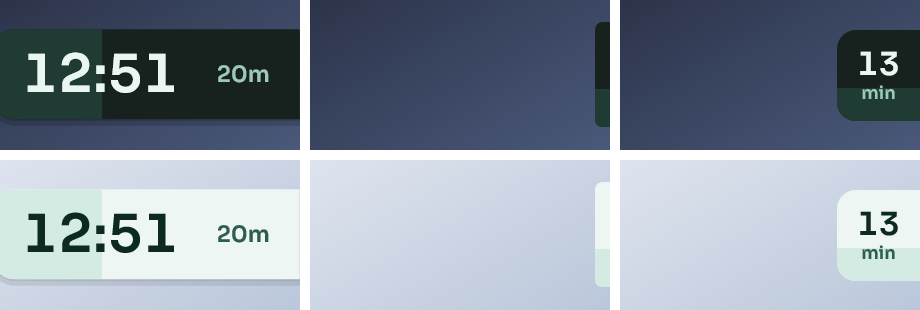
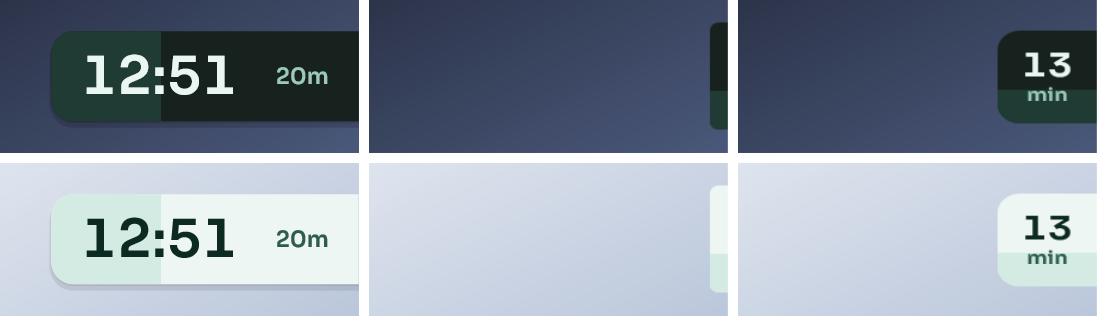
Concise README with fresh screenshots
The README is now the pitch, a few one-line features each over its screenshot,
and short install, build and license sections. Screenshots are recaptured with
scripts/capture_screens.ps1 from the main build (aeb2f12): time-up tabs, docking,
tray panel and settings in dark and light; the overlay sheet was byte-identical
and stays. Unused images (before/after, old widget and settings shots) are gone.

Build, install-script and screenshot details moved to CONTRIBUTING.md, which
also no longer claims "no network calls" (iPhone reminders and Check for
updates are opt-in).

diff --git a/README.md b/README.md
@@ -1,181 +1,59 @@
 <p align="center">
-  <img src="assets/icon.png" alt="Unseat sitting timer icon" width="128">
+  <img src="assets/icon.png" alt="Unseat icon" width="112">
 </p>
 
 <h1 align="center">Unseat</h1>
 
-<p align="center">A tiny always-on-top <strong>sitting timer</strong> for Windows. The pill fills as you sit, turns red when it is time to move, and can tuck itself into a screen edge.</p>
+<p align="center">A tiny always-on-top sitting timer for Windows.<br>
+The pill fills as you sit and turns red when it's time to move.</p>
 
-<p align="center">No accounts. No cloud. No telemetry. One portable exe.</p>
-
-<p>
-  <a href="LICENSE"><img alt="License" src="https://img.shields.io/badge/license-Apache%202.0-blue.svg"></a>
-  <a href="https://github.com/flyingsatoshi/unseat/actions"><img alt="CI" src="https://github.com/flyingsatoshi/unseat/actions/workflows/ci.yml/badge.svg"></a>
+<p align="center">
+  <a href="https://github.com/flyingsatoshi/unseat/actions/workflows/ci.yml"><img alt="CI" src="https://github.com/flyingsatoshi/unseat/actions/workflows/ci.yml/badge.svg"></a>
+  <a href="LICENSE"><img alt="License: Apache 2.0" src="https://img.shields.io/badge/license-Apache%202.0-blue.svg"></a>
 </p>
 
 <p align="center">
-  <img src="assets/screenshots/overlay-states.png" alt="Unseat overlay: counting, hover controls, overdue, break and paused, in dark and light themes. The pill fills as you sit and its colour shows the state." width="820">
+  <img src="assets/screenshots/overlay-states.png" alt="The overlay while sitting, on hover with pause, break and reset, overdue, on a break and paused, in dark and light" width="860">
 </p>
 
-<p align="center">
-  <img src="assets/screenshots/settings.png" alt="Unseat alert settings: sound, volume, alert length and reminders" width="300">
-  <img src="assets/screenshots/settings-light.png" alt="Unseat general settings in the light theme with the weekly statistics chart" width="300">
+<p align="center"><b>Time's up? Take a break, or sit one more session.</b><br>
+  <img src="assets/screenshots/time-up-prompt.png" alt="Two small tabs under the red overlay: Break 3m and +20m, with the caption 20 min sitting · time to stand" width="560">
 </p>
 
-<p align="center">
-  <img src="assets/screenshots/tray-panel.png" alt="Tray panel with the countdown, progress, Pause, Take a break, Snooze and Reset" width="300">
-  <img src="assets/screenshots/time-up-prompt.png" alt="When time is up, two small tabs hang under the red overlay: Break 3m and +20m, with a one-line caption" width="300">
+<p align="center"><b>Docks to a screen edge.</b> Point at it to peek; it slides out when time is up.<br>
+  <img src="assets/screenshots/dock-states.png" alt="Docked to the right edge: expanded, tucked into a slim progress tab, and peeking with 13 min" width="640">
 </p>
 
-## What's new in 0.2
-
-- **Signal design**: the overlay pill is the progress bar, its colour is the state, and the digits use the Sora typeface with fixed-width figures. Light, dark or system theme.
-- **Keeps running** through idle time, a locked screen, sleep and a minimized overlay. Pausing when you step away is now an opt-in setting.
-- **Edge docking**: attach the timer to any screen edge; it slides out to a slim progress tab and comes back when you point at it or when time is up.
-- **Breaks** with their own countdown, two small **time-up tabs** under the overlay (*Break* or one more session), a **tray panel** instead of a plain menu, a volume slider, global shortcuts and optional weekly statistics.
-- A new **Rise** icon.
-
-<p align="center">
-  <img src="assets/screenshots/dock-states.png" alt="Docked overlay expanded, slid out to a tab, and peeking with 13 min, in dark and light" width="640">
+<p align="center"><b>Everything else is one click away in the tray.</b><br>
+  <img src="assets/screenshots/tray-panel.png" alt="Tray panel with the overdue time, progress, Pause, Take a break, Snooze, Reset, Settings and iPhone reminders" width="560">
 </p>
 
-<details>
-<summary>Before and after</summary>
-
-<p align="center">
-  <img src="assets/screenshots/before-after.png" alt="The v0.2.0 interface before and after the Signal redesign" width="820">
+<p align="center"><b>Simple settings, light or dark.</b><br>
+  <img src="assets/screenshots/settings.png" alt="Settings: Timer and Alerts tabs in dark, General tab with the weekly chart in light" width="860">
 </p>
-</details>
 
-## Sitting timer for Windows
+## Also
 
-Unseat is a local desktop **timer** and break reminder. It stays on top of your work like a small watch, tracks how long you have been sitting, and alerts you when it is time to get up.
-
-**Timing you can trust**
-- Wall-clock based: idle time, a locked screen, sleep and a minimized overlay never stop it, and delayed updates never lose time
-- Optional **Pause when inactive** (off by default): the overlay shows *away* while you are gone, and being away for the break length starts a fresh session
-- **Break or extend**: when time is up, two small tabs hang under the overlay. *Break 10m* counts down your break length, then a fresh session starts; *+40m* gives you one more full session
-- **Breaks** any time from the overlay, the tray or `Ctrl+Alt+Shift+B`
-- Reverse countdown or ascending stopwatch, without resetting the session
-- Timer, pause and break state survive restarts; only Reset starts over
-
-**Alerts that get noticed, not in the way**
-- One alert at the limit, optional repeats while overdue that never pile up
-- The tabs wait quietly for your answer and follow the overlay. While it is hidden they come back with it, and an optional Windows notification stands in
-- Five bundled sounds, a volume slider and a Test button; every sound plays at the same loudness
-- Short snoozes from the tray panel or `Ctrl+Alt+Shift+S`
-
-**An overlay that fits your desk**
-- The pill is the progress bar and its colour shows the state: sitting, near the limit, overdue, break, away or paused
-- XS–XL sizes, optional always-on-top, drag anywhere (snaps to screen edges), position remembered on every monitor
-- Optional **edge docking** with auto-hide, peek, pin and reveal-on-alert
-- Tray panel with the countdown and one-click Pause, Take a break, Snooze and Reset
-
-**Everything else**
-- Light, dark or system theme; full keyboard navigation in settings
-- Optional 14-day statistics with a weekly chart, kept only on this PC
-- Optional launch with Windows
-
-Settings live in `%APPDATA%\Unseat\settings.json`.
-
-See [ARCHITECTURE.md](ARCHITECTURE.md) for how the engine and Win32 host split.
+- Keeps counting through idle time, a locked screen and sleep; restarts pick up where they left off.
+- Shortcuts: `Ctrl+Alt+Shift` + `P` pause · `B` break · `S` snooze · `R` reset · `U` show/hide.
+- Optional iPhone reminders over your own Tailscale network ([setup](docs/iphone.md)).
+- Five alert sounds, five sizes, countdown or stopwatch, 14-day stats.
+- Local only: no account, cloud or telemetry. One 1.3 MB exe, no installer or runtime.
 
 ## Install
 
-Download `unseat.exe` from [Releases](https://github.com/flyingsatoshi/unseat/releases), put it in a permanent folder of your choice (for example `%LOCALAPPDATA%\Programs\Unseat`), and run it there.
+Windows 10/11 (x64). Download `unseat.exe` from [Releases](https://github.com/flyingsatoshi/unseat/releases), keep it in a folder of your choice and run it. Settings live in `%APPDATA%\Unseat`.
 
-Unseat needs only Windows 10/11 (x64): no installer, runtime, Docker or developer tools.
+> 0.2, shown here, is not on Releases yet: take the `unseat-exe` artifact from the latest [CI run on main](https://github.com/flyingsatoshi/unseat/actions/workflows/ci.yml?query=branch%3Amain).
 
-> The latest published release is 0.1.1. Version 0.2 described here is on `main`; until its release is published, download the `unseat-exe` artifact from the latest [CI run](https://github.com/flyingsatoshi/unseat/actions/workflows/ci.yml?query=branch%3Amain) on `main` (needs a GitHub sign-in), or [build it from source](#build-from-source). Unseat is portable: it does not copy or relaunch itself, or create shortcuts automatically. You can pin it to the taskbar or create a shortcut yourself.
-
-Close from the taskbar or tray **Quit**. Click the pinned icon to open it again. Hide the overlay from the close chip or tray; the timer keeps running.
-
-Optional: Settings → General → Launch with Windows. This is off by default; the startup registration changes only when you change that switch and save, and the switch shows the real state (including an entry disabled in Task Manager). When it is on and you move the executable, the next launch updates the startup path.
-
-## Shortcuts
-
-Global shortcuts (Settings → General → Keyboard shortcuts, on by default). Shift is included so they never collide with AltGr typing; a combination another app already owns is left alone.
-
-| Shortcut | Action |
-| --- | --- |
-| `Ctrl+Alt+Shift+P` | Pause / resume |
-| `Ctrl+Alt+Shift+R` | Reset |
-| `Ctrl+Alt+Shift+S` | Snooze (default length) |
-| `Ctrl+Alt+Shift+B` | Start / end a break |
-| `Ctrl+Alt+Shift+U` | Show / hide the overlay |
-
-In settings: `Tab` / `Shift+Tab` move focus, arrow keys change values and tabs, `Space` toggles, `Ctrl+Tab` or `Ctrl+1…5` switch tabs, `Enter` saves and `Esc` cancels.
-
-## Edge docking
-
-Settings → Dock → **Dock to a screen edge**, or with it on, drag the overlay against any edge of any monitor. Docked, it waits **Hide after** seconds (3 by default) once the pointer leaves, then slides out to an 8 px tab whose fill shows progress. Point at the tab to see the minutes left; click it or press `Ctrl+Alt+Shift+U` to slide it in. When time is up it slides in on its own for **Stay revealed** seconds (choose time up only, all alerts, or never). The pin on the hovered overlay (or turning off **Slide out when not in use**) keeps it open. It stays clear of the taskbar, stays hidden while a fullscreen app has the monitor, remembers its edge and position, and follows monitor and scaling changes. The timer never pauses while it is hidden.
-
-<p align="center">
-  <img src="assets/screenshots/dock-states.png" alt="Docked overlay expanded, slid out to a tab, and peeking with 13 min, in dark and light" width="700">
-</p>
-
-## Upgrading from 0.1.x
-
-Settings are kept. Earlier versions paused the timer during inactivity by default; that stored default is migrated to the new keep-running behavior once. Turn on **Pause when inactive** under Breaks to get the old behavior back.
-
-## Alerts, break or extend, and snooze
-
-Settings → Alerts picks **Chime**, **Bell**, **Pulse**, **Glass**, or **Soft**, a volume (75% by default, a little louder than before), and **Test**. **Once** plays the clip; **2s / 4s / 8s** loops it for that long. Repeat reminders fire on the interval you set and never stack: after sleep only one plays. A new sound always stops the previous one.
-
-When the sitting limit is reached, two small tabs slide out from under the overlay: **Break 10m** (your break length, Settings → Breaks) and **+40m** (one more full session), with a one-line caption such as *80 min sitting · time to stand*. They stay until you answer, show even with Windows notifications off, and go away by themselves if the session ends another way, such as a long absence with **Pause when inactive** on. Docked at the bottom edge, they hang above the overlay; an auto-hiding dock stays out while they wait. If they are not showing (for example after a restart), click the overdue time to ask again. When a break ends, a caption says so for a few seconds.
-
-For a shorter delay, snooze **5 / 10 / 15 / 30** minutes or a custom duration (Settings → Breaks) from the tray panel or `Ctrl+Alt+Shift+S`. The last choice is saved.
-
-## Build from source
-
-Windows 10/11 x64, [Rust](https://rustup.rs/), and the MSVC Build Tools C++ workload including the Windows SDK/resource compiler. Docker is not needed.
-
-Cargo finds the Build Tools by itself; an x64 Native Tools prompt works too:
+## Build
 
 ```bat
-cargo test --locked --all-targets
 cargo build --locked --release --features gui
 ```
 
-The binary is `target\release\unseat.exe`. It links the C runtime statically (`.cargo/config.toml`), so it runs on any Windows 10/11 PC without the Visual C++ Redistributable; CI checks that it needs only Windows' own DLLs. To run it day to day, install it instead:
-
-```bat
-powershell -ExecutionPolicy Bypass -File scripts\install.ps1
-```
-
-That builds, closes the running Unseat, copies the build to `dist\unseat.exe`, points an existing **Launch with Windows** entry there and starts it. Settings, statistics and iPhone pairing in `%APPDATA%\Unseat` are kept. Rerun it after every change.
-
-- `-Exe path\to\unseat.exe` installs an exe that is already built, such as a release or the `unseat-exe` CI artifact. It needs no Rust, build tools or Docker.
-- `-Docker` is optional. It cross-builds in a Rust Linux container when local builds are blocked, for example by Smart App Control (`os error 4551`). The container is limited to 4 CPUs and 6 GB (`-DockerCpus`, `-DockerMemory`) and keeps downloaded crates in the `unseat-cargo-registry` volume. The exe it makes also needs only Windows.
-
-Builds under `target\` never register themselves to start with Windows, and opening a newer build while an older one runs replaces the older one.
-
-End-to-end tests drive the real executable (idle, lock, sleep/resume, minimize, restart, migration, sizes, monitors, tray, startup entry, shortcuts). They run an isolated test instance beside any Unseat you already have open, with its own settings folder and startup value:
-
-```bat
-powershell -ExecutionPolicy Bypass -File scripts\test_app.ps1
-powershell -ExecutionPolicy Bypass -File scripts\capture_screens.ps1
-powershell -ExecutionPolicy Bypass -File scripts\bench.ps1 -Exes dist\unseat.exe,target\release\unseat.exe -Budgets scripts\perf-budgets.json
-```
-
-Library tests do not need the GUI feature. The Win32 host is behind `--features gui`.
-
-GNU builds additionally need MinGW `windres` on PATH (or configured through the resource compiler's `RC` environment variable). GUI builds require resources and fail if they cannot embed the application manifest, icon, and version information.
-
-For release signing and handling antivirus false positives, see [Windows distribution](docs/windows-distribution.md). Build/test success does not establish an antivirus verdict.
-
-To regenerate the icon (`scripts\make_icon.ps1`) or alert WAVs (optional):
-
-```bat
-python scripts\gen_sounds.py
-```
-
-## Privacy
-
-Unseat never phones home. It does not upload usage, crash reports, or identity. Today’s total and the optional 14-day history are stored only on this PC.
+Needs Rust and the MSVC Build Tools. Tests, installing and benchmarks: [CONTRIBUTING.md](CONTRIBUTING.md). Design: [ARCHITECTURE.md](ARCHITECTURE.md).
 
 ## License
 
-[Apache License 2.0](LICENSE). Contributions are accepted under the same terms. Alert sounds in `assets/sounds/` are [CC0](assets/sounds/LICENSE.txt). The embedded [Sora](https://github.com/sora-xor/sora-font) typeface is under the [SIL Open Font License 1.1](assets/fonts/OFL.txt). See [NOTICE](NOTICE) for third-party notes.
-
-**Unseat** is a name of this project. Forks may use the code; they should not present themselves as the official Unseat app.
+[Apache 2.0](LICENSE). Sounds [CC0](assets/sounds/LICENSE.txt), [Sora](https://github.com/sora-xor/sora-font) font [OFL 1.1](assets/fonts/OFL.txt). See [NOTICE](NOTICE). Forks may use the code but should not present themselves as the official Unseat.

diff --git a/CONTRIBUTING.md b/CONTRIBUTING.md
@@ -3,13 +3,15 @@
 Thanks for helping with Unseat.
 
 1. Open an issue before large changes.
-2. Keep it local-only. No telemetry, accounts, or network calls.
+2. Keep it local-only. No telemetry or accounts; the network is used only by features the user turns on (iPhone reminders, Check for updates). See `SECURITY.md`.
 3. Engine rules live in `src/engine.rs`. Win32 code does not invent timer behavior.
    Colors come from `src/theme.rs`; settings rows from `sections()` in `src/win/settings_dlg.rs`.
 4. Persist new options through `Settings` with `serde(default)` and `clamp()`.
 5. Run `cargo test --no-default-features` before a PR, and `scripts/test_app.ps1` for host changes. End-to-end tests start isolated test copies of Unseat beside yours: a visible one carries a pink TEST badge and a "TEST copy" tray tooltip, each has its own id, windows and settings folder, and the scripts stop only the copies they started. They refuse to run while another test copy is up (a background one started with `UNSEAT_TEST_HIDDEN=1` included), since test copies share test ports.
-6. GUI work needs MSVC and `cargo build --release --features gui`. Run `scripts/install.ps1` to replace your everyday copy in `dist\` with the new build (`-Exe` installs a built exe; `-Docker` is an optional, resource-capped container build). Keep the exe free of runtime DLLs that Windows does not ship; CI checks this.
+6. GUI work needs Windows 10/11 x64, Rust and the MSVC Build Tools (C++ workload with the Windows SDK): `cargo build --locked --release --features gui`. The exe links the C runtime statically and must import only DLLs that ship with Windows; CI checks this. GNU builds also need MinGW `windres`. The manifest, icon and version resources are required. Builds under `target\` never register to start with Windows, and opening a newer build replaces an older one that is running.
+   Run `scripts/install.ps1` to replace your everyday copy in `dist\` with the new build. It keeps `%APPDATA%\Unseat` (settings, statistics, iPhone pairing). `-Exe path` installs a built exe, such as the `unseat-exe` CI artifact, with no Rust needed. `-Docker` is an optional cross-build in a container limited to 4 CPUs and 6 GB, for when local builds are blocked (Smart App Control, `os error 4551`).
 7. Alert WAVs are original CC0 tones. Regenerate with `python scripts/gen_sounds.py` rather than adding an audio crate.
-8. For changes that could affect speed, memory or size, compare your build with the installed one: `scripts/bench.ps1 -Exes dist\unseat.exe,target\release\unseat.exe -Budgets scripts/perf-budgets.json`. CI fails if the exe outgrows `max.SizeBytes` there; raise a budget only with a measured reason, in the same change.
+8. For changes that could affect speed, memory or size, compare your build with the installed one: `scripts/bench.ps1 -Exes dist\unseat.exe,target\release\unseat.exe -Budgets scripts/perf-budgets.json`. CI fails if the exe outgrows `max.SizeBytes` there; raise a budget only with a measured reason, in the same change. Settings writes need `-IdleSeconds 120` or more to show the save cadence.
+9. UI changes: regenerate the README images with `scripts/capture_screens.ps1` (it runs a test copy without the TEST marks). The icon comes from `scripts/make_icon.ps1`. For signing and antivirus questions see [docs/windows-distribution.md](docs/windows-distribution.md).
 
 By submitting a pull request you agree that your contribution is licensed under Apache-2.0, the same license as the rest of this repository. Sound files in `assets/sounds/` stay CC0.
